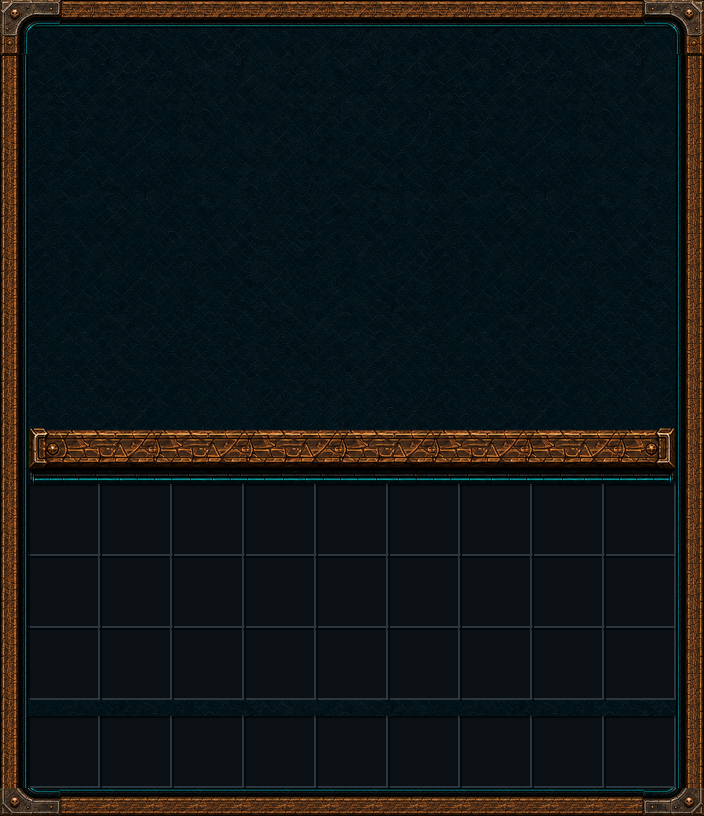
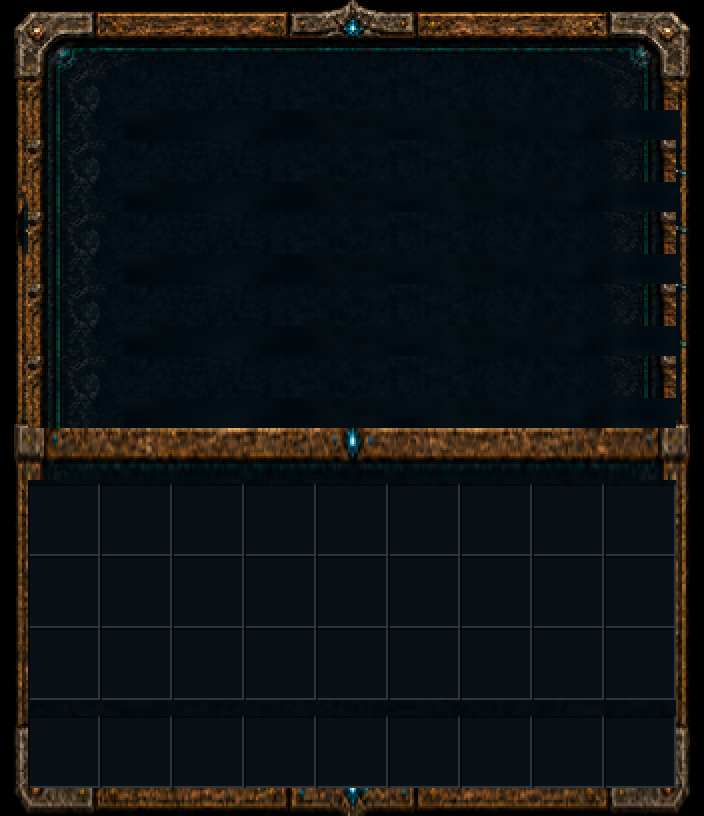
아이콘 등록 형식 수정(마젠타 사고) + 배경을 원본 아트 기반으로
★사고: items/ 에 모델 내용(parent/textures)을 써서 스킬 트리 전체가 마젠타 체커보드로 떴다.
  기존에 정상 동작하던 72개까지 같이 망가뜨렸다. 1.21.4+ 는 두 파일이 분리돼 있다:
    items/<id>.json   = {"model":{"type":"minecraft:model","model":"barkan:barkan_icon/<id>"}}
    models/<id>.json  = {"parent":"minecraft:item/generated","textures":{...},"display":{...}}
  display.gui.scale 은 **모델** 쪽에 들어간다(정의 쪽은 무시).
  → icon-forge/register_icons.py 신설: 두 파일을 함께 쓰고 --check 로 형식 검사.
    241개 재등록, 검사 400건 → 0건.

★배경: Codex 프레임 9슬라이스 조립을 버리고 원본 A_detailrestored5 에서 그대로 쓴다 —
  조립본은 나무 색이 원본과 천지차이였다. 트리 패널의 노드·선만 덮는다.
  - 덮을 재료는 row0(노드·선 없는 여백)뿐. 높이 72로 잡으면 row1 소켓까지 퍼와 유령 소켓 생김
  - 가로 타일링하면 벽면 좌우 명암 기울기가 되풀이돼 세로 이음선 → **같은 x에서 세로로만 복사**
  검증: 패널 내부 teal/gold 잔여 0px, 행 경계 밝기차 2.4(무시 가능)

Changed region(s): [[0.0, 0.0, 1.0, 1.0]]

diff --git a/gui-forge/build_skilltree_bg.py b/gui-forge/build_skilltree_bg.py
@@ -1,21 +1,20 @@
 #!/usr/bin/env python3
-"""특성 트리 **공용** 배경 조립 — 벽면 타일 + 9슬라이스 프레임 + 인벤 칸 → 4타일 글리프.
+"""특성 트리 **공용** 배경 조립 — 원본 아트에서 프레임·벽면을 떠와 노드/선만 지운다.
 
 ★핵심: 노드 소켓·연결선은 배경에 굽지 않는다. 전부 **아이템 아이콘**으로 올린다.
   그래서 3계열/4계열/2페이지 구분이 사라지고 **배경 1장이 모든 트리를 커버**한다.
-  (기존: 레이아웃별 3장 × 4타일 = 글리프 12개 → 이제 4개)
-  레이아웃 변경·새 숙련 추가에 아트 작업이 0이 된다.
+
+★2026-08-04 방향 전환: Codex 프레임 조각(9슬라이스)으로 조립했더니 **나무 색이 원본과
+  천지차이**였다. 원본 `barkan_skilltree_gui_A_detailrestored5.png` 는 이미 승인된 그림이니
+  거기서 프레임·구분밴드·벽면을 그대로 쓰고, 트리 패널의 노드·선만 깨끗한 벽면으로 덮는다.
+  (레일을 같은 아트에서 칸 단위로 떠온 것과 같은 원리 — 있는 걸 재료로 쓴다)
+  깨끗한 벽면 출처: row0(첫 슬롯 행 위 여백)은 노드·선이 없다 — 측정으로 확인.
 
 ## 해상도 = GUI x SCALE (4배 = 704x816)
-2배(352x408)면 GUI 스케일 3에서 1.5배 확대돼 흐렸다. 4배면 스케일 3에서 0.75배 축소,
-스케일 4에서 정확히 1:1 → 손실 없음.
-★폰트 아틀라스 256px 제한 때문에 4배는 4타일로 안 되고 **3열 x 4행 = 12타일**이다.
-  열 GUI 59/59/58 (텍스처 236/236/232) · 행 GUI 51 x4 (텍스처 204) — 전부 256 이하.
-좌표는 GUI 기하에서 SCALE 배로 유도한다(하드코딩 금지 — 배율 바꿀 때 어긋난다).
-
-프레임 배율은 하나로 통일한다(s = 14 / frame_left 폭) — 조각마다 다른 배율을 쓰면
-모서리와 변의 두께가 어긋나 이음선이 보인다.
-하단 모서리만 **아래 14px로 잘라 쓴다**: 원래 크기(28px)로 놓으면 핫바 첫 칸을 덮는다.
+원본이 2배라 4배는 정수배(2x) 확대다. MC가 GUI 스케일 3에서 1.5배로 늘리는 대신 미리
+정수배로 올려두는 것이라 화질 손실이 없다.
+★폰트 아틀라스 256px 제한 → 3열 x 4행 = 12타일.
+좌표는 GUI 기하에서 SCALE 배로 유도한다(하드코딩 금지).
 """
 import json
 import os
@@ -25,6 +24,7 @@ from PIL import Image
 HERE = os.path.dirname(os.path.abspath(__file__))
 SRC = os.path.join(HERE, "src", "skilltree")
 OUTDIR = os.path.expanduser("~/development/barkan-resourcepack/assets/barkan/textures/gui")
+SRC_ART = os.path.expanduser("~/Downloads/barkan_skilltree_gui_A_detailrestored5.png")
 
 SCALE = 4                          # GUI 배율
 GW, GH = 176, 204                  # GUI 창 크기
@@ -133,48 +133,34 @@ def slot_cell(px, x0, y0):
 
 
 def main():
-    im = Image.new("RGBA", (W, H), (0, 0, 0, 255))
+    art = Image.open(SRC_ART).convert("RGBA")
+    if art.size != (GW * 2, GH * 2):
+        raise SystemExit(f"원본 아트가 2배(352x408)가 아님: {art.size}")
 
-    # ① 벽면: 프레임 안쪽 전체를 타일링
-    wall = Image.open(os.path.join(SRC, "wall_plate.png")).convert("RGBA")
-    wall = wall.resize((WALL_TILE, WALL_TILE), Image.LANCZOS)
-    tile_into(im, wall, (SIDE, SIDE, W - SIDE, H - SIDE))
+    # ① 트리 패널의 노드·선을 깨끗한 벽면으로 덮는다 (2배 좌표)
+    #   ★가로로 타일링하면 벽면의 좌우 명암 기울기가 되풀이돼 세로 이음선이 보인다(1차 시도).
+    #     **같은 x에서 세로로만** 복사하면 가로 방향 정보가 원본 그대로라 이음선이 안 생긴다.
+    #     원본은 row0(첫 계열 행 위 여백)만 노드·선이 없다 — 측정 확인.
+    #     좌우 테두리 발광(x14~19 / x333~337)도 세로로 이어지는 것이라 같이 복사돼야 맞다.
+    px0, py0 = 7 * 2, 17 * 2                       # 슬롯 격자 원점
+    band = art.crop((px0, py0, px0 + 18 * 2 * 9, py0 + 18 * 2))
+    for r in range(1, 5):
+        art.paste(band, (px0, py0 + 18 * 2 * r))
 
-    # ② 프레임 9슬라이스 — 배율 하나로 통일
-    left, right = load("frame_left"), load("frame_right")
-    s = SIDE / left.width
-    left, right = fit_w(left, SIDE), fit_w(right, SIDE)
-    top, bottom = fit_h(load("frame_top"), SIDE), fit_h(load("frame_bottom"), SIDE)
+    # ② 정수배 확대 (원본 2배 → SCALE배)
+    im = art.resize((W, H), Image.NEAREST) if SCALE != 2 else art
 
-    tile_strip_v(im, left, 0, H, 0)
-    tile_strip_v(im, right, 0, H, W - SIDE)
-    tile_strip_h(im, top, SIDE, W - SIDE, 0)
-    tile_strip_h(im, bottom, SIDE, W - SIDE, H - SIDE)
-
-    # 모서리는 변 위에 덮어 이음선을 가린다
-    for name, pos, crop_bottom in (("frame_tl", "tl", False), ("frame_tr", "tr", False),
-                                   ("frame_bl", "bl", True), ("frame_br", "br", True)):
-        c = load(name)
-        c = c.resize((max(1, round(c.width * s)), max(1, round(c.height * s))), Image.LANCZOS)
-        if crop_bottom:
-            # 원래 높이(28px)로 놓으면 핫바 첫 칸을 덮는다 → 아래 14px만 쓴다
-            c = c.crop((0, c.height - SIDE, c.width, c.height))
-        x = 0 if pos in ("tl", "bl") else W - c.width
-        y = 0 if pos in ("tl", "tr") else H - c.height
-        im.alpha_composite(c, (x, y))
-
-    # ③ 구분 밴드 — 상단 변 조각을 재사용(볼트·글로우선 그대로)
-    band = fit_h(load("frame_top"), DIVIDER[1] - DIVIDER[0])
-    tile_strip_h(im, band, SIDE, W - SIDE, DIVIDER[0])
-
-    # ④ 플레이어 인벤 36칸 음각
+    # ③ 플레이어 인벤 36칸 음각
     px = im.load()
     for cy in INV_CELL_Y + [HOTBAR_Y]:
         for c in range(CELL_N):
             slot_cell(px, CELL_X0 + CELL_W * c, cy)
 
-    # ⑤ 타일 분할 + 폰트 프로바이더·글리프 문자열 산출
+    # ④ 타일 분할 + 폰트 프로바이더·글리프 문자열 산출
     os.makedirs(OUTDIR, exist_ok=True)
+    for f in os.listdir(OUTDIR):
+        if f.startswith("tree_bg_"):
+            os.remove(os.path.join(OUTDIR, f))
     tiles = tile_boxes()
     providers, glyph, code = [], [], 0xE606
     for i, (name, box, gw, gh, (gx, gy)) in enumerate(tiles):
@@ -184,17 +170,15 @@ def main():
         ch = chr(code + i)
         providers.append({"type": "bitmap", "file": f"barkan:gui/tree_bg_{name}.png",
                           "ascent": 13 - gy, "height": gh, "chars": [ch]})
-        # 행 시작이면 복귀 오프셋, 그 외엔 -1 (advance = round(폭)+1 이라 1px 겹침 보정)
         glyph.append("\\uf801" if i == 0 else ("\\uf803" if gx == 0 else "\\uf802"))
         glyph.append(f"\\u{ord(ch):04x}")
     with open(os.path.join(HERE, "src", "skilltree", "_providers.json"), "w", encoding="utf-8") as f:
         json.dump(providers, f, ensure_ascii=False, indent=2)
     with open(os.path.join(HERE, "src", "skilltree", "_glyph.txt"), "w", encoding="utf-8") as f:
         f.write("".join(glyph))
-    print(f"tree_bg_* {len(tiles)}타일 저장 ({SCALE}배, 프레임 배율 {s:.4f})")
-    print(f"  타일 크기: {set(t[1][2]-t[1][0] for t in tiles)} x {set(t[1][3]-t[1][1] for t in tiles)}")
-    print(f"  프로바이더/글리프 → src/skilltree/_providers.json, _glyph.txt")
     im.save(os.path.join(HERE, "src", "skilltree", "_preview_full.png"))
+    print(f"tree_bg_* {len(tiles)}타일 저장 ({SCALE}배, 원본 아트 기반)")
+    print(f"  타일 {set(t[1][2]-t[1][0] for t in tiles)} x {set(t[1][3]-t[1][1] for t in tiles)}")
     return im
 
 

diff --git a/icon-forge/register_icons.py b/icon-forge/register_icons.py
@@ -1,0 +1,85 @@
+#!/usr/bin/env python3
+"""아이콘 등록 파일 생성 — items/(아이템 정의) + models/(모델) **두 개** 다 써야 한다.
+
+★2026-08-04 사고: `items/` 에 모델 내용(parent/textures)을 써서 스킬 트리 전체가 마젠타
+  체커보드(텍스처 미발견)로 떴다. 기존에 정상 동작하던 72개까지 같이 망가뜨렸다.
+  1.21.4+ 규약은 두 파일이 분리돼 있다:
+
+    assets/barkan/items/barkan_icon/<id>.json     ← setItemModel 이 찾는 **아이템 정의**
+      {"model":{"type":"minecraft:model","model":"barkan:barkan_icon/<id>"}}
+
+    assets/barkan/models/barkan_icon/<id>.json    ← 실제 **모델** (텍스처·display 변환)
+      {"parent":"minecraft:item/generated","textures":{"layer0":"minecraft:item/barkan_icon/<id>"}}
+
+  `display.gui.scale` 은 **모델** 쪽에 들어간다(정의 쪽에 쓰면 무시된다).
+
+사용: python3 register_icons.py            # skill_* / tree_rail_* 전부 재등록
+      python3 register_icons.py --check    # 누락·형식오류만 검사
+"""
+import argparse
+import json
+import os
+import sys
+
+RP = os.path.expanduser("~/development/barkan-resourcepack")
+TEX = os.path.join(RP, "assets/minecraft/textures/item/barkan_icon")
+ITEMS = os.path.join(RP, "assets/barkan/items/barkan_icon")
+MODELS = os.path.join(RP, "assets/barkan/models/barkan_icon")
+
+GUI_SCALE = 1.125        # 16 * 1.125 = 18 = 슬롯 피치 → 인접 레일과 노드가 맞물린다
+PREFIXES = ("skill_", "tree_rail_")
+NO_SCALE = ("skill_hub_",)   # /레벨 허브 아트에 맞춰진 아이콘 — 키우면 링 밖으로 삐져나온다
+
+
+def targets():
+    return sorted(f[:-4] for f in os.listdir(TEX)
+                  if f.endswith(".png") and f.startswith(PREFIXES))
+
+
+def item_def(icon_id):
+    return {"model": {"type": "minecraft:model", "model": f"barkan:barkan_icon/{icon_id}"}}
+
+
+def model_def(icon_id):
+    body = {"parent": "minecraft:item/generated",
+            "textures": {"layer0": f"minecraft:item/barkan_icon/{icon_id}"}}
+    if not icon_id.startswith(NO_SCALE):
+        body["display"] = {"gui": {"scale": [GUI_SCALE] * 3}}
+    return body
+
+
+def main():
+    ap = argparse.ArgumentParser()
+    ap.add_argument("--check", action="store_true")
+    a = ap.parse_args()
+    os.makedirs(ITEMS, exist_ok=True)
+    os.makedirs(MODELS, exist_ok=True)
+
+    ids = targets()
+    bad = []
+    for iid in ids:
+        ip, mp = os.path.join(ITEMS, iid + ".json"), os.path.join(MODELS, iid + ".json")
+        if a.check:
+            try:
+                got = json.load(open(ip, encoding="utf-8"))
+                if "model" not in got:
+                    bad.append(f"{iid}: items/ 에 모델 내용이 들어있다(정의 형식 아님)")
+            except Exception as e:
+                bad.append(f"{iid}: items/ 읽기 실패 {e}")
+            if not os.path.exists(mp):
+                bad.append(f"{iid}: models/ 없음")
+            continue
+        json.dump(item_def(iid), open(ip, "w", encoding="utf-8"), ensure_ascii=False)
+        json.dump(model_def(iid), open(mp, "w", encoding="utf-8"), ensure_ascii=False)
+
+    if a.check:
+        print(f"검사 {len(ids)}개 — 문제 {len(bad)}건")
+        for b in bad[:15]:
+            print("  ⛔", b)
+        sys.exit(1 if bad else 0)
+    print(f"등록 완료 {len(ids)}개 (items/ + models/ 각각)")
+    print(f"  gui scale {GUI_SCALE} — 단 {', '.join(NO_SCALE)} 제외")
+
+
+if __name__ == "__main__":
+    main()
